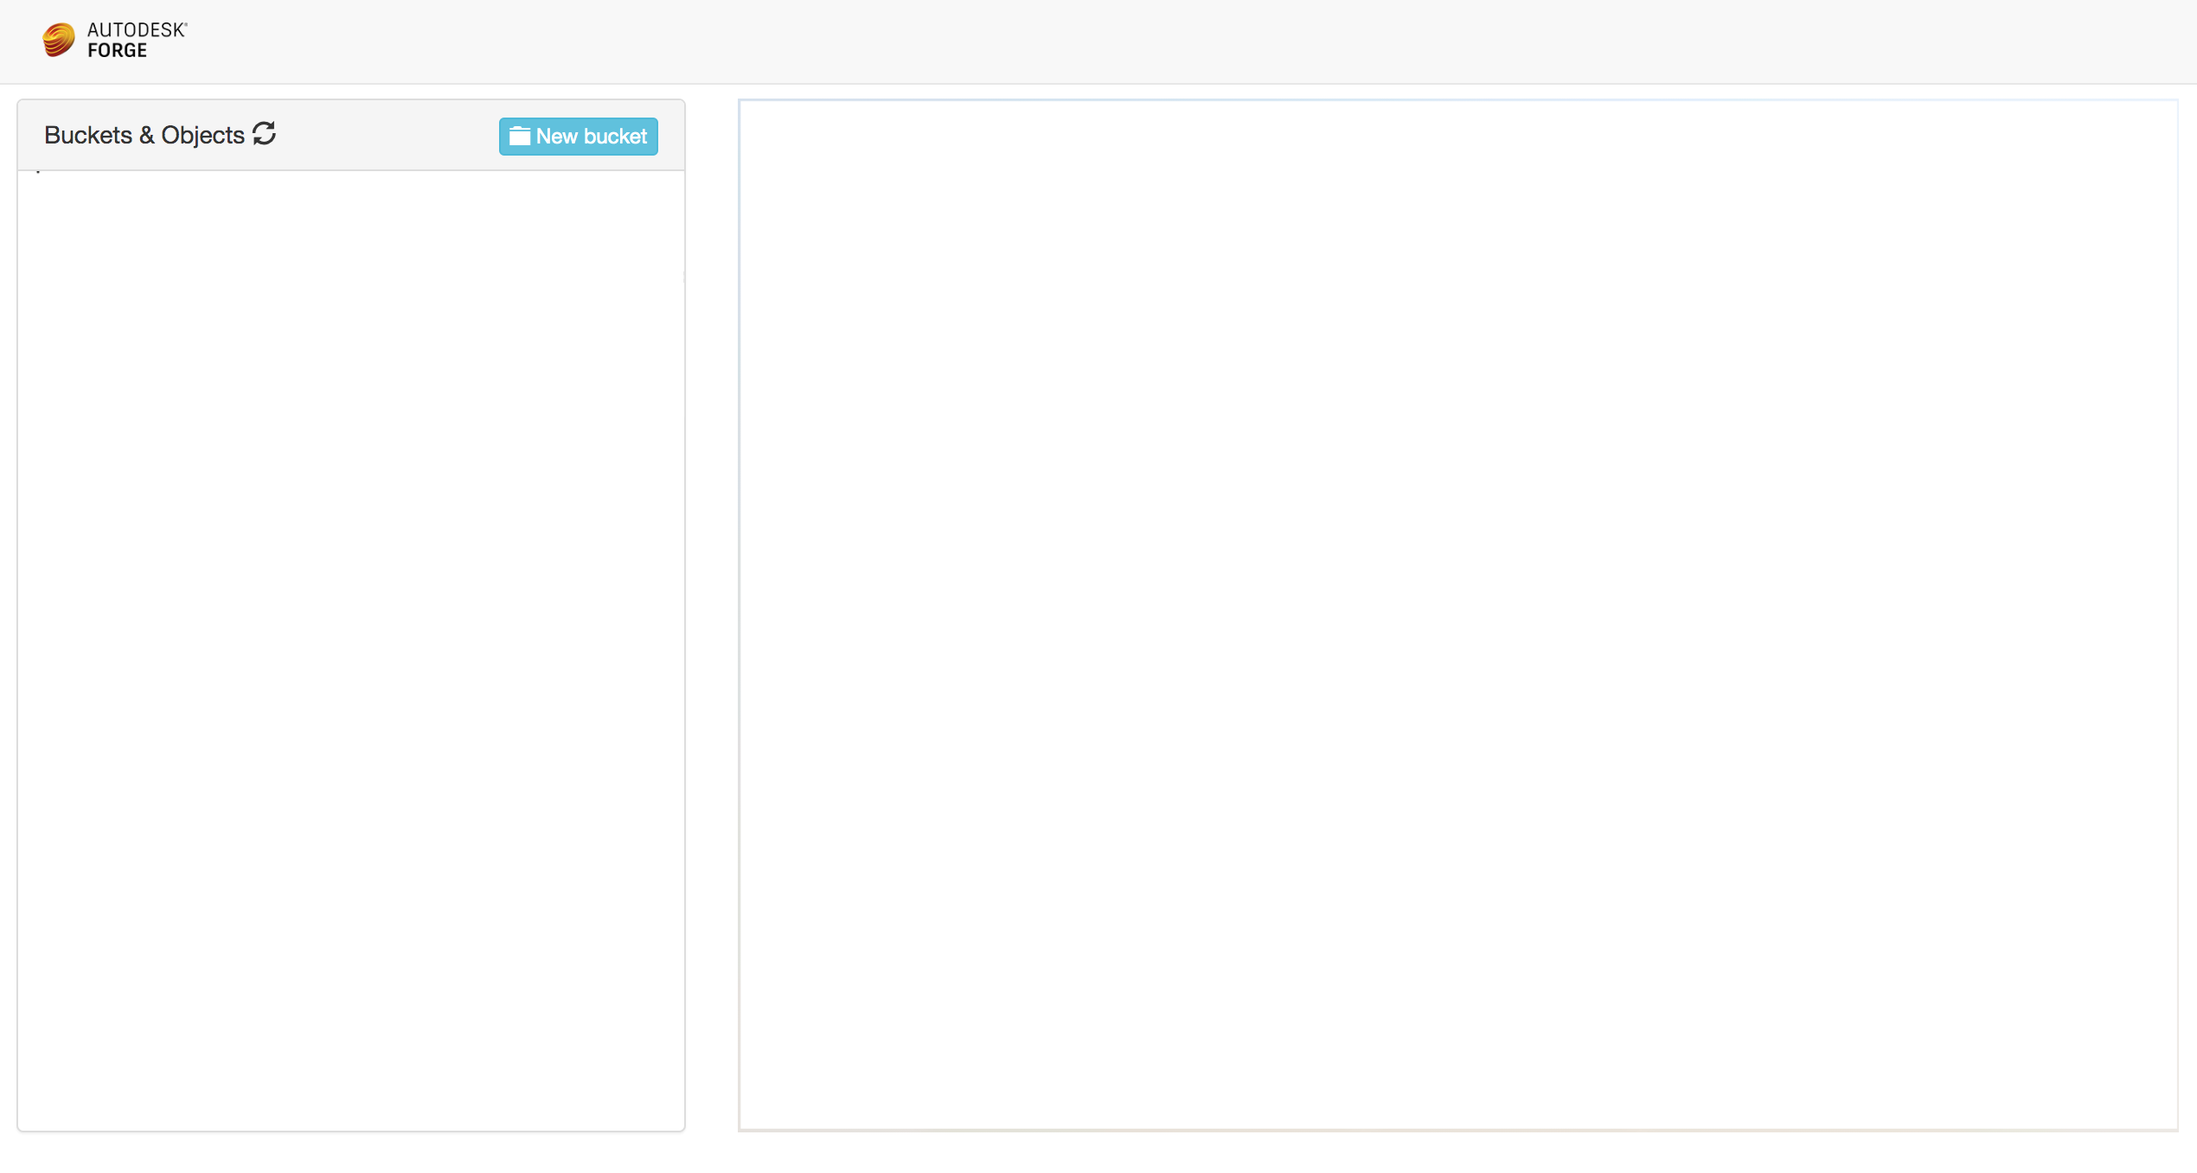
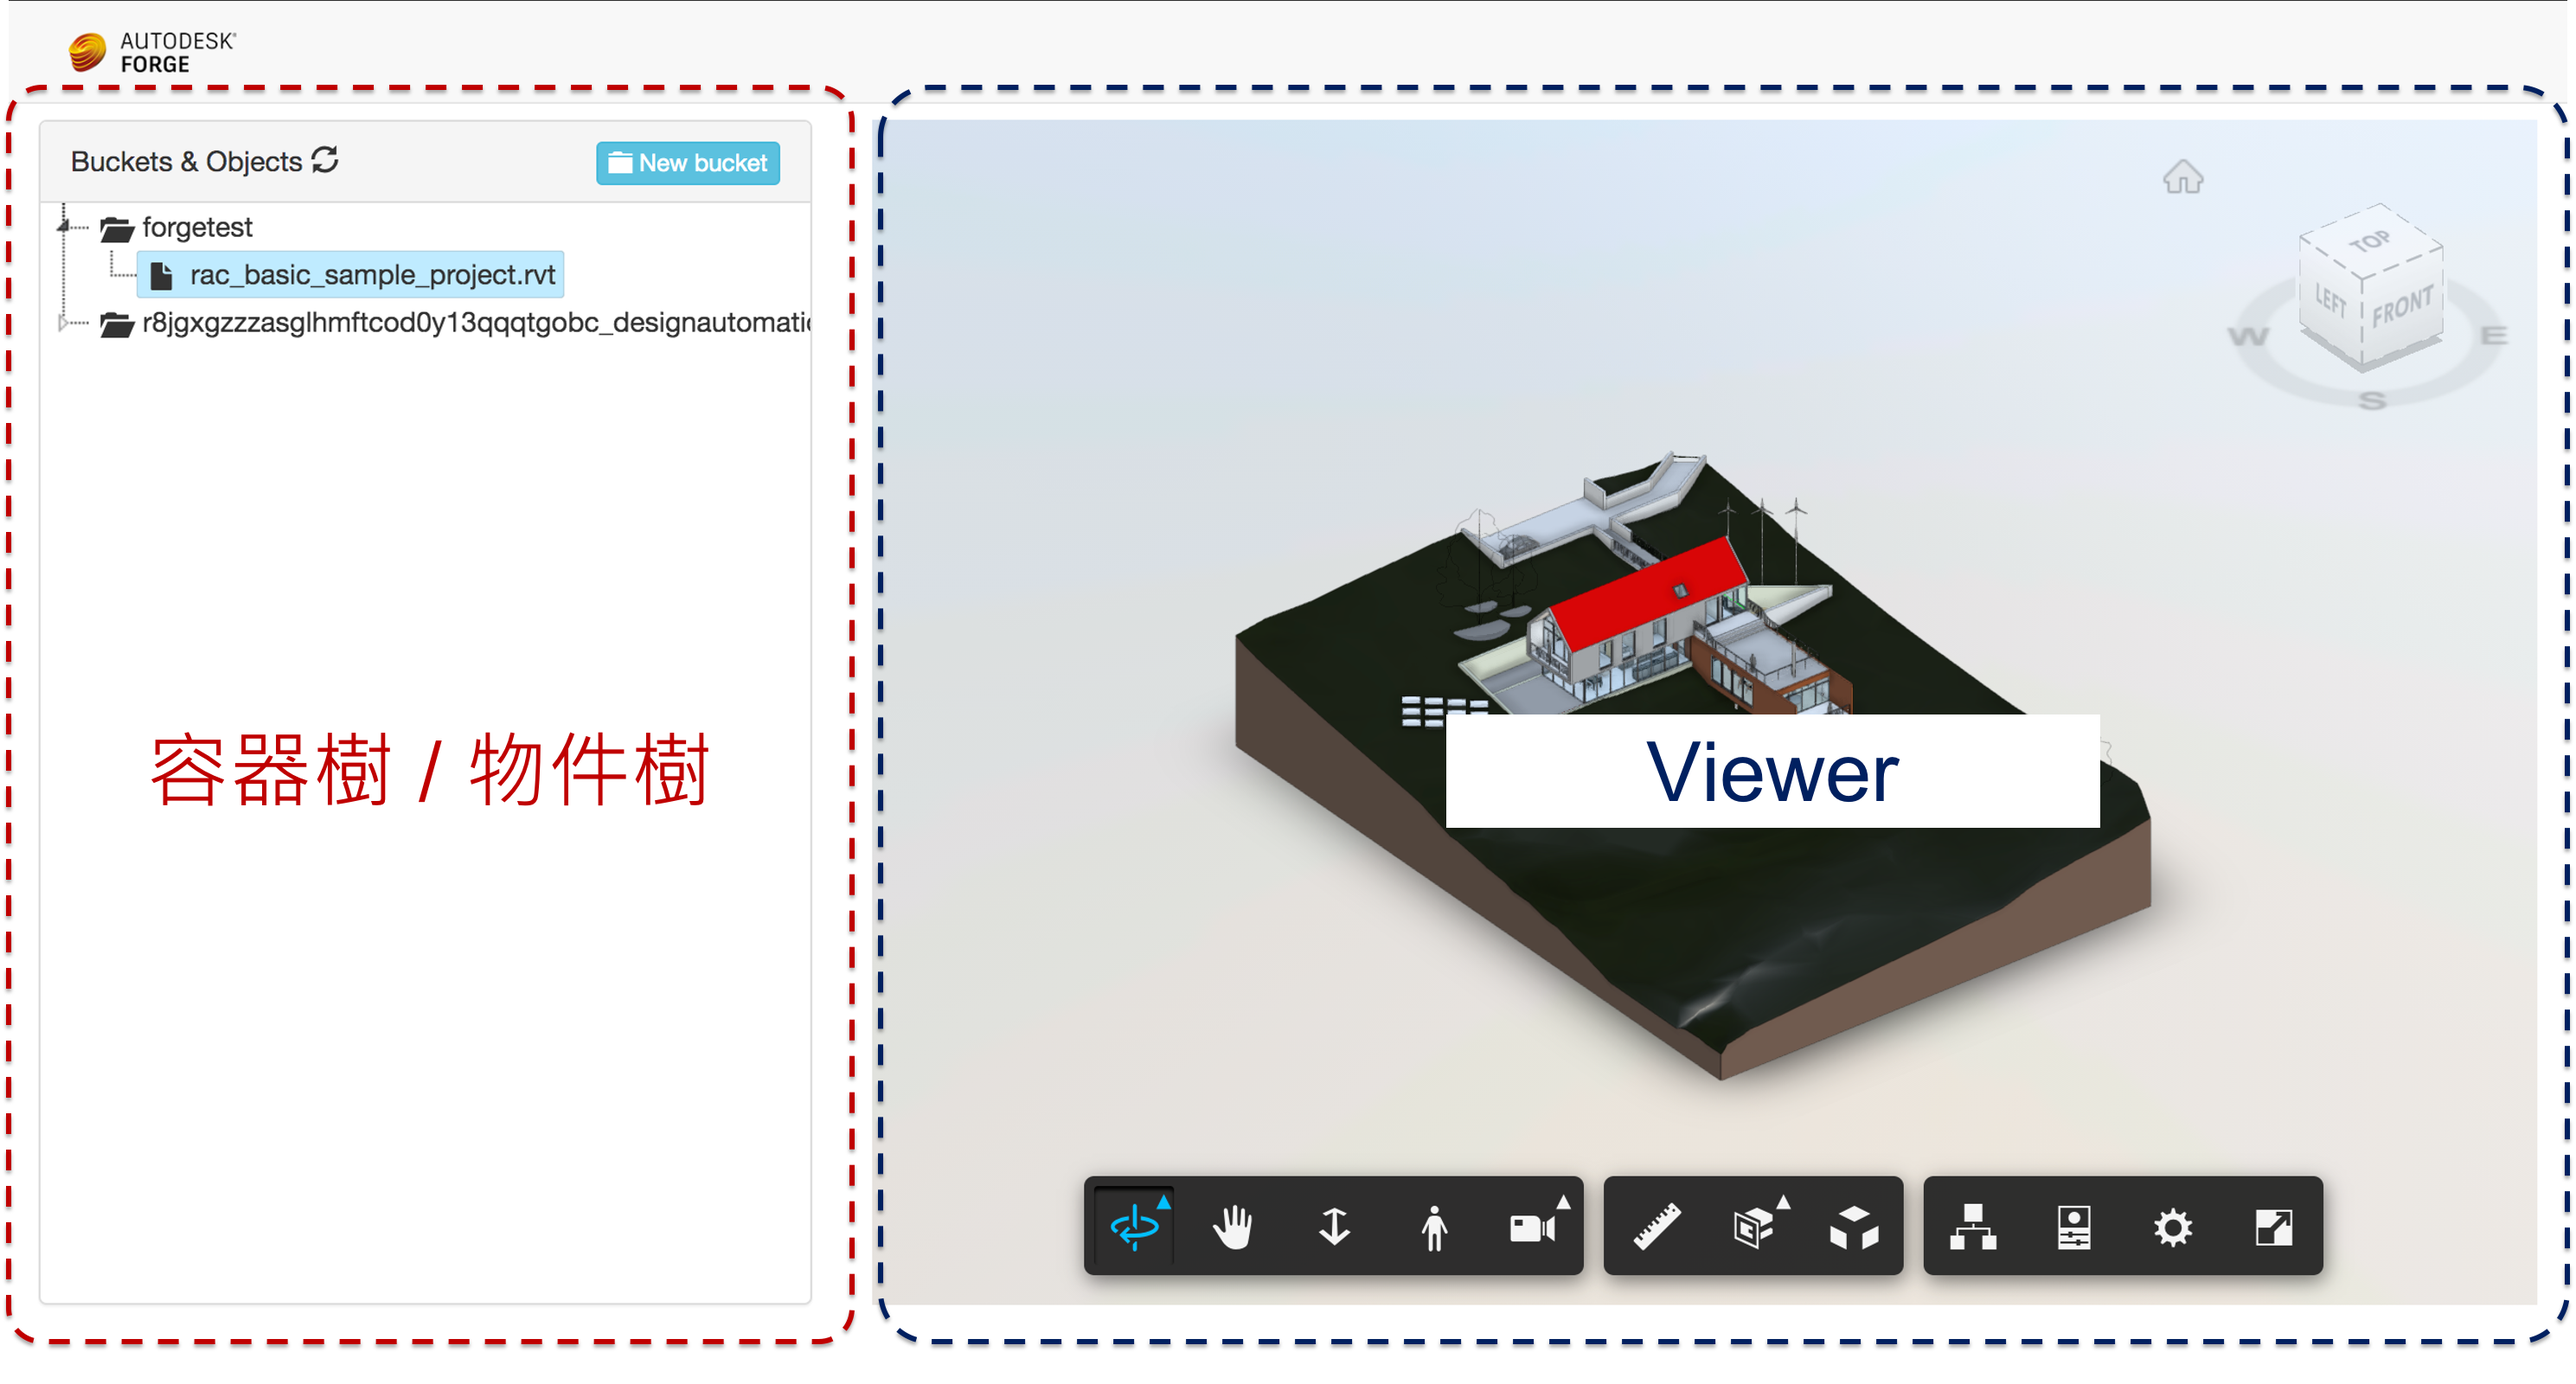
Add expect goal, result and replace snapshot of frontend layout

diff --git a/README.md b/README.md
@@ -2,7 +2,11 @@
 
 對3/5 Forge 開發基礎專題的實作專題意猶未盡嗎？或是依舊對 Autodesk Forge摸不著頭緒、不知道如何下手呢？本次線上課程將延續『Forge viewer 案例從搭建到部署』實作專題，並為六月份的 Forge 加速器活動做暖身，在兩天的時間內使用 Learn Forge 官方範例，手把手帶大家建個人第一個 Forge Viewer 應用！
 
+## 活動目標及預期成果
 
+活動期間將帶領大家依照 [Learn Forge](https://learnforge.autodesk.io/#/) 的學習路線，並使用 **[ASP.NET Core](https://docs.microsoft.com/zh-tw/aspnet/core/?view=aspnetcore-3.1)** 這個技術一步一步的完成自己的第一個 Forge Viewer 網頁應用程式，最後成果會長的像下圖：
+
+![alt "Website layout"](5-Bucket-Management/img/frontend-layout-setup.png)
 
 ## 活動議程
 
